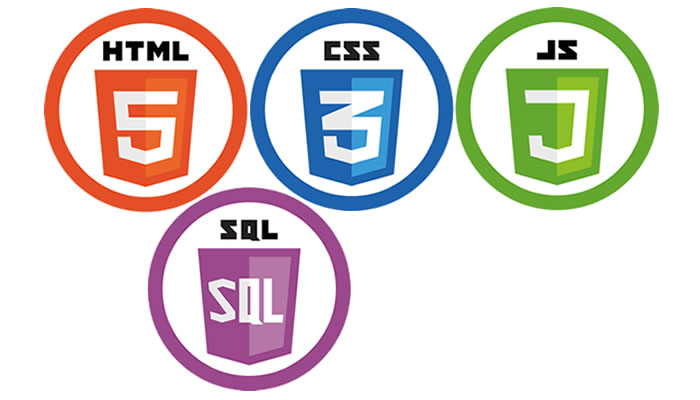
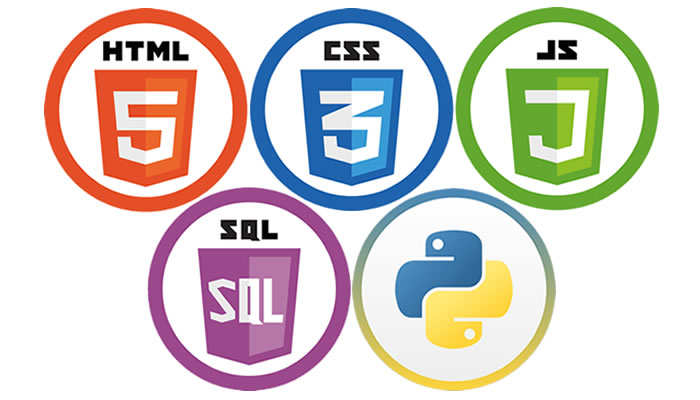
Updated Portfolio for Python Completion

Changed region(s): [[0.48, 0.45, 0.81, 0.99]]

diff --git a/index.html b/index.html
@@ -80,7 +80,7 @@
                 <div class="Slides fade">
                     <div class="synopsis_text">
                         <h2>My Coding Skills</h2>
-                        <img src="./Images/CodeSkills.jpg" style="width:700px;height:400px;" alt="html-css-javascript-sql">
+                        <img src="./Images/CodeSkills.jpg" style="width:700px;height:400px;" alt="html-css-javascript-sql-python">
                     </div>
                 </div>
 
@@ -151,7 +151,7 @@
                     <div class="resume-text">
                         <p><u>3D Animator:</u> Creative, inventive, and detailed. Strong understanding of the principles of Animation. Works with biped and quadruped characters. Passion for creating quality animations.</p>
                         <p><u>Rigging:</u> Able to create skeletons for characters, paint skin weights, and set up controls.</p>
-                        <p><u>Software Developer:</u> Able to use HTML5, CSS3, JavaScript, and SQL to create websites and work with databases in collaboration with GitHub.</p>
+                        <p><u>Software Developer:</u> Able to use HTML5, CSS3, JavaScript, SQL, and Python to create websites, programs, and work with databases in collaboration with GitHub.</p>
                         <p><u>Work Ethic:</u> Highly responsible, dependable, self-motivated, and positive attitude. Works well independently and in teams. Always seeking to improve skills. Handles feedback and direction well.</p>
                         <p><u>Project Management:</u> Collaborative, communicative, and organized. Works well during crunch times. Meets team deadlines.</p>
                     </div>

diff --git a/css/portfolio_singlepage.css b/css/portfolio_singlepage.css
@@ -205,7 +205,7 @@ video {
 
 .resume {
     background-color: lightgray;
-    height: 1900px;
+    height: 2000px;
     width: 100%;
     font-size: large;
     padding-top: 15px;
